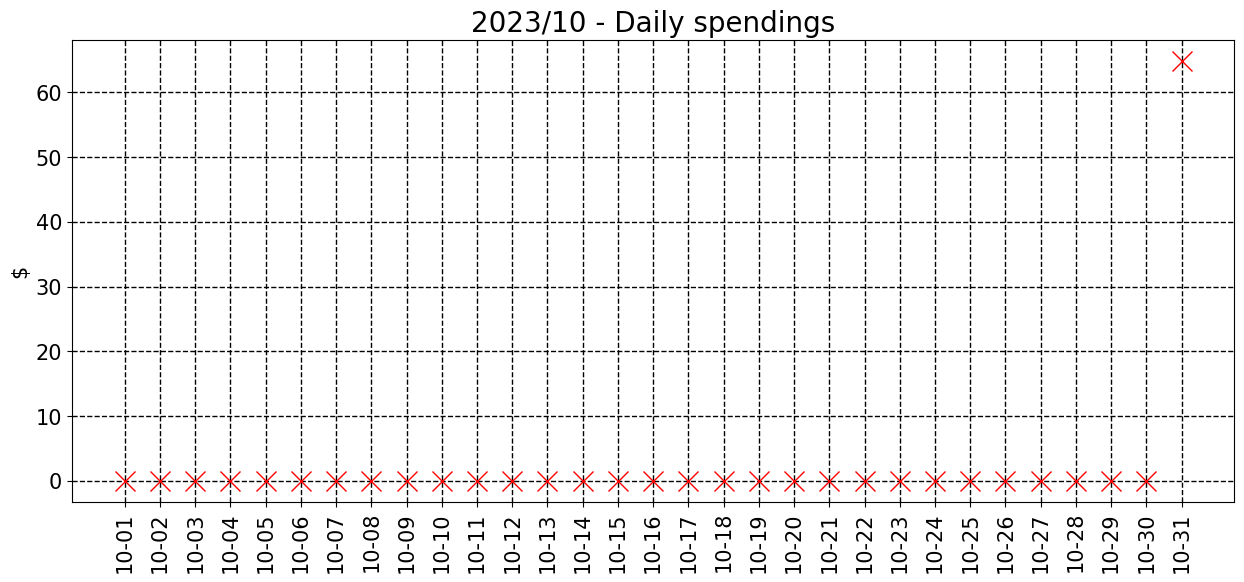
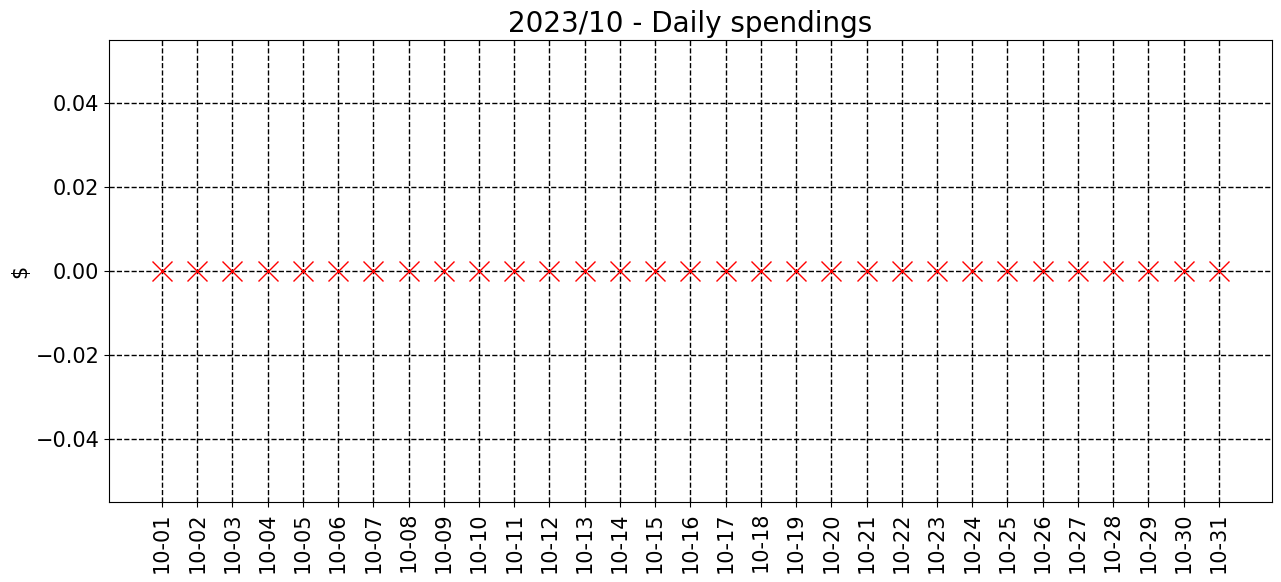
commit from python

Changed region(s): [[0.0305, 0.0, 1.0, 0.9897]]

diff --git a/README.md b/README.md
@@ -7,7 +7,7 @@ __________________________________
 <sub><sup>
 | Spent | Avg daily | End of month projection | Spent since 2023/1 |
 |---|---|---|---|
-| $0.0  |  $0.0  | $0.0  |  $32316.0  |
+| $0.0  |  $0.0  | $0.0  |  $32251.0  |
 </sub></sup>
 __________________________________
 ![graph_2024_12_sum](graph_2024_12_sum.png)
@@ -21,7 +21,7 @@ __________________________________
 <sub><sup>
 | Spent | Avg daily | End of month projection | Spent since 2023/1 |
 |---|---|---|---|
-| $0.0  |  $0.0  | $0.0  |  $32316.0  |
+| $0.0  |  $0.0  | $0.0  |  $32251.0  |
 </sub></sup>
 __________________________________
 ![graph_2024_11_sum](graph_2024_11_sum.png)
@@ -35,7 +35,7 @@ __________________________________
 <sub><sup>
 | Spent | Avg daily | End of month projection | Spent since 2023/1 |
 |---|---|---|---|
-| $0.0  |  $0.0  | $0.0  |  $32316.0  |
+| $0.0  |  $0.0  | $0.0  |  $32251.0  |
 </sub></sup>
 __________________________________
 ![graph_2024_10_sum](graph_2024_10_sum.png)
@@ -49,7 +49,7 @@ __________________________________
 <sub><sup>
 | Spent | Avg daily | End of month projection | Spent since 2023/1 |
 |---|---|---|---|
-| $0.0  |  $0.0  | $0.0  |  $32316.0  |
+| $0.0  |  $0.0  | $0.0  |  $32251.0  |
 </sub></sup>
 __________________________________
 ![graph_2024_9_sum](graph_2024_9_sum.png)
@@ -63,7 +63,7 @@ __________________________________
 <sub><sup>
 | Spent | Avg daily | End of month projection | Spent since 2023/1 |
 |---|---|---|---|
-| $0.0  |  $0.0  | $0.0  |  $32316.0  |
+| $0.0  |  $0.0  | $0.0  |  $32251.0  |
 </sub></sup>
 __________________________________
 ![graph_2024_8_sum](graph_2024_8_sum.png)
@@ -77,7 +77,7 @@ __________________________________
 <sub><sup>
 | Spent | Avg daily | End of month projection | Spent since 2023/1 |
 |---|---|---|---|
-| $0.0  |  $0.0  | $0.0  |  $32316.0  |
+| $0.0  |  $0.0  | $0.0  |  $32251.0  |
 </sub></sup>
 __________________________________
 ![graph_2024_7_sum](graph_2024_7_sum.png)
@@ -91,7 +91,7 @@ __________________________________
 <sub><sup>
 | Spent | Avg daily | End of month projection | Spent since 2023/1 |
 |---|---|---|---|
-| $0.0  |  $0.0  | $0.0  |  $32316.0  |
+| $0.0  |  $0.0  | $0.0  |  $32251.0  |
 </sub></sup>
 __________________________________
 ![graph_2024_6_sum](graph_2024_6_sum.png)
@@ -105,7 +105,7 @@ __________________________________
 <sub><sup>
 | Spent | Avg daily | End of month projection | Spent since 2023/1 |
 |---|---|---|---|
-| $0.0  |  $0.0  | $0.0  |  $32316.0  |
+| $0.0  |  $0.0  | $0.0  |  $32251.0  |
 </sub></sup>
 __________________________________
 ![graph_2024_5_sum](graph_2024_5_sum.png)
@@ -119,7 +119,7 @@ __________________________________
 <sub><sup>
 | Spent | Avg daily | End of month projection | Spent since 2023/1 |
 |---|---|---|---|
-| $1712.0  |  $131.7  | $3951.0  |  $32316.0  |
+| $1712.0  |  $131.7  | $3951.0  |  $32251.0  |
 </sub></sup>
 __________________________________
 ![graph_2024_4_sum](graph_2024_4_sum.png)
@@ -133,7 +133,7 @@ __________________________________
 <sub><sup>
 | Spent | Avg daily | End of month projection | Spent since 2023/1 |
 |---|---|---|---|
-| $4420.0  |  $142.6  | $4421.0  |  $30604.0  |
+| $4420.0  |  $142.6  | $4421.0  |  $30539.0  |
 </sub></sup>
 __________________________________
 ![graph_2024_3_sum](graph_2024_3_sum.png)
@@ -147,7 +147,7 @@ __________________________________
 <sub><sup>
 | Spent | Avg daily | End of month projection | Spent since 2023/1 |
 |---|---|---|---|
-| $5532.0  |  $190.8  | $5533.0  |  $26184.0  |
+| $5532.0  |  $190.8  | $5533.0  |  $26119.0  |
 </sub></sup>
 __________________________________
 ![graph_2024_2_sum](graph_2024_2_sum.png)
@@ -161,7 +161,7 @@ __________________________________
 <sub><sup>
 | Spent | Avg daily | End of month projection | Spent since 2023/1 |
 |---|---|---|---|
-| $8408.0  |  $271.2  | $8407.0  |  $20652.0  |
+| $8408.0  |  $271.2  | $8407.0  |  $20587.0  |
 </sub></sup>
 __________________________________
 ![graph_2024_1_sum](graph_2024_1_sum.png)
@@ -175,7 +175,7 @@ __________________________________
 <sub><sup>
 | Spent | Avg daily | End of month projection | Spent since 2023/1 |
 |---|---|---|---|
-| $4913.0  |  $158.5  | $4914.0  |  $12244.0  |
+| $4913.0  |  $158.5  | $4914.0  |  $12179.0  |
 </sub></sup>
 __________________________________
 ![graph_2023_12_sum](graph_2023_12_sum.png)
@@ -189,7 +189,7 @@ __________________________________
 <sub><sup>
 | Spent | Avg daily | End of month projection | Spent since 2023/1 |
 |---|---|---|---|
-| $7267.0  |  $242.2  | $7266.0  |  $7331.0  |
+| $7267.0  |  $242.2  | $7266.0  |  $7267.0  |
 </sub></sup>
 __________________________________
 ![graph_2023_11_sum](graph_2023_11_sum.png)
@@ -203,7 +203,7 @@ __________________________________
 <sub><sup>
 | Spent | Avg daily | End of month projection | Spent since 2023/1 |
 |---|---|---|---|
-| $65.0  |  $2.1  | $65.0  |  $65.0  |
+| $0.0  |  $0.0  | $0.0  |  $0.0  |
 </sub></sup>
 __________________________________
 ![graph_2023_10_sum](graph_2023_10_sum.png)
